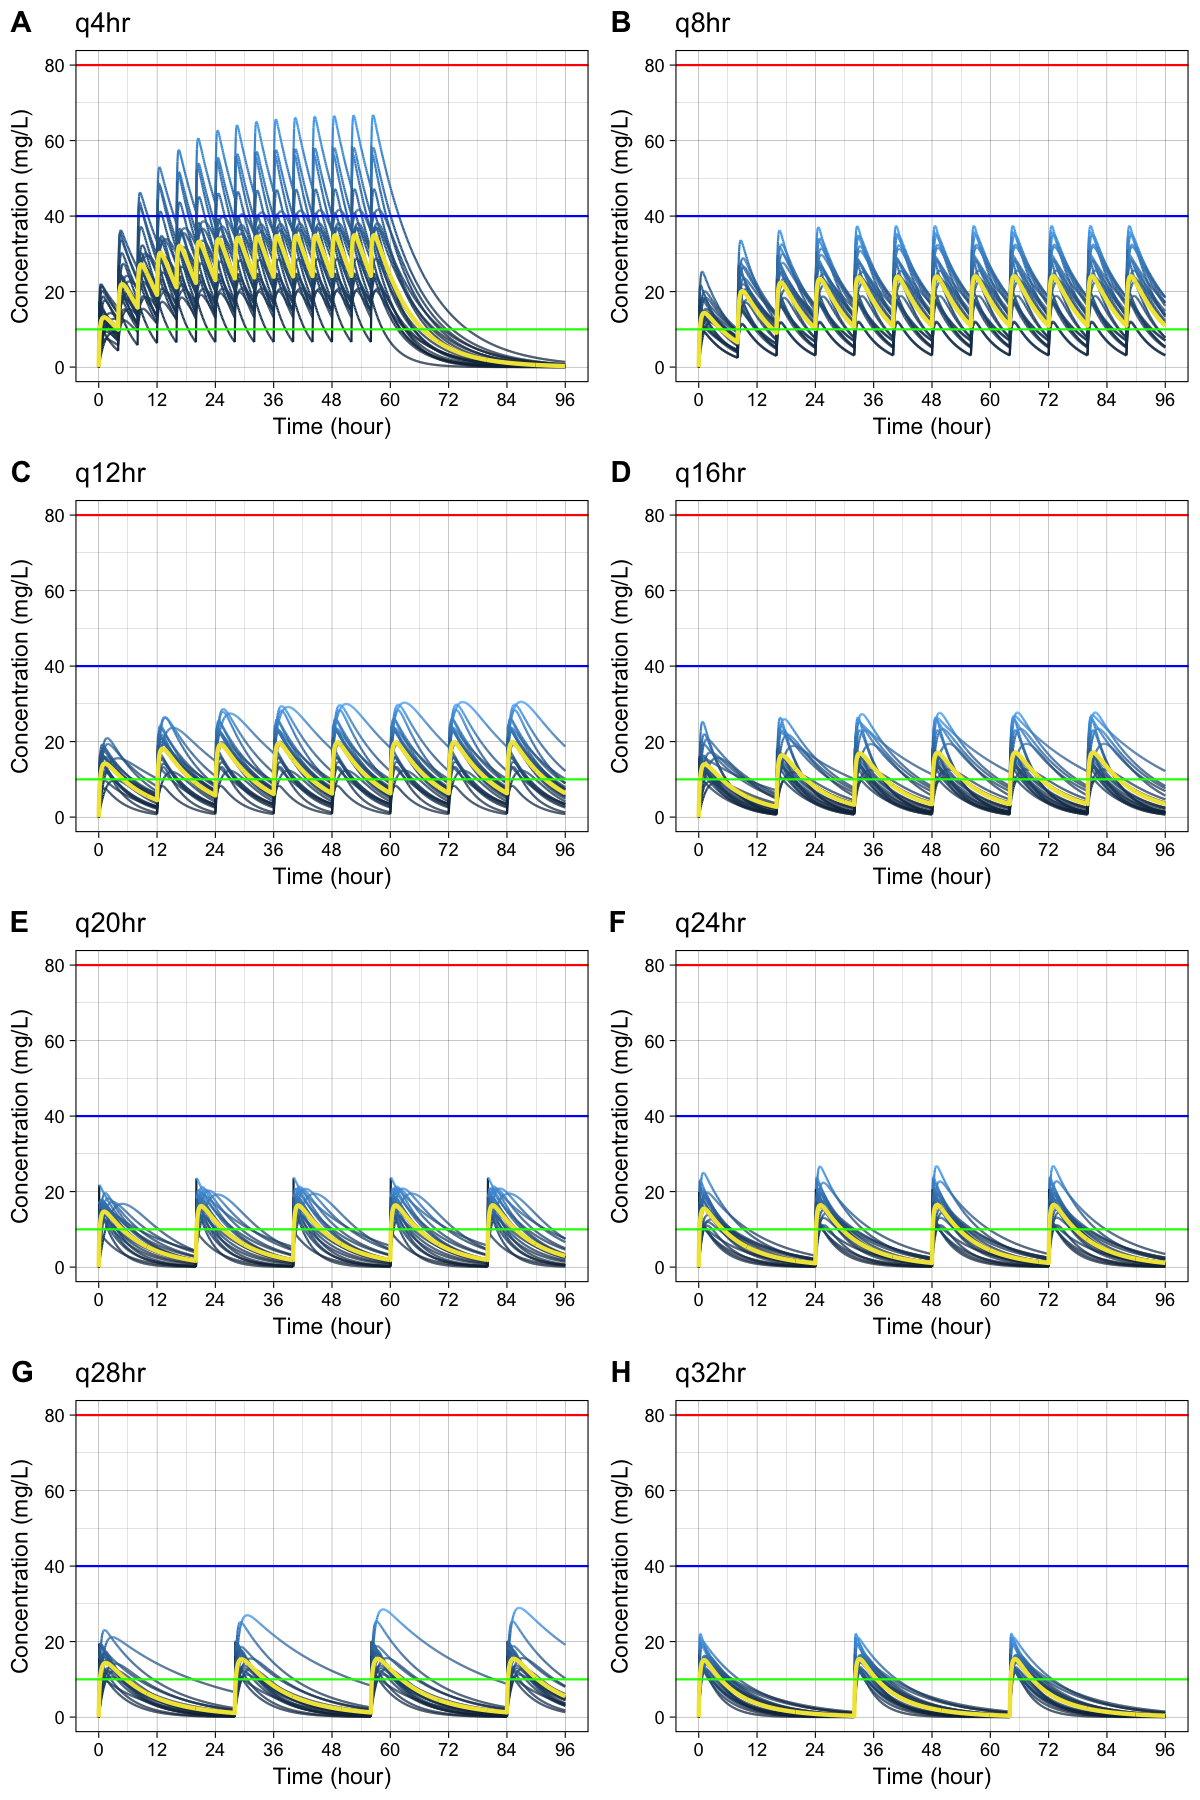
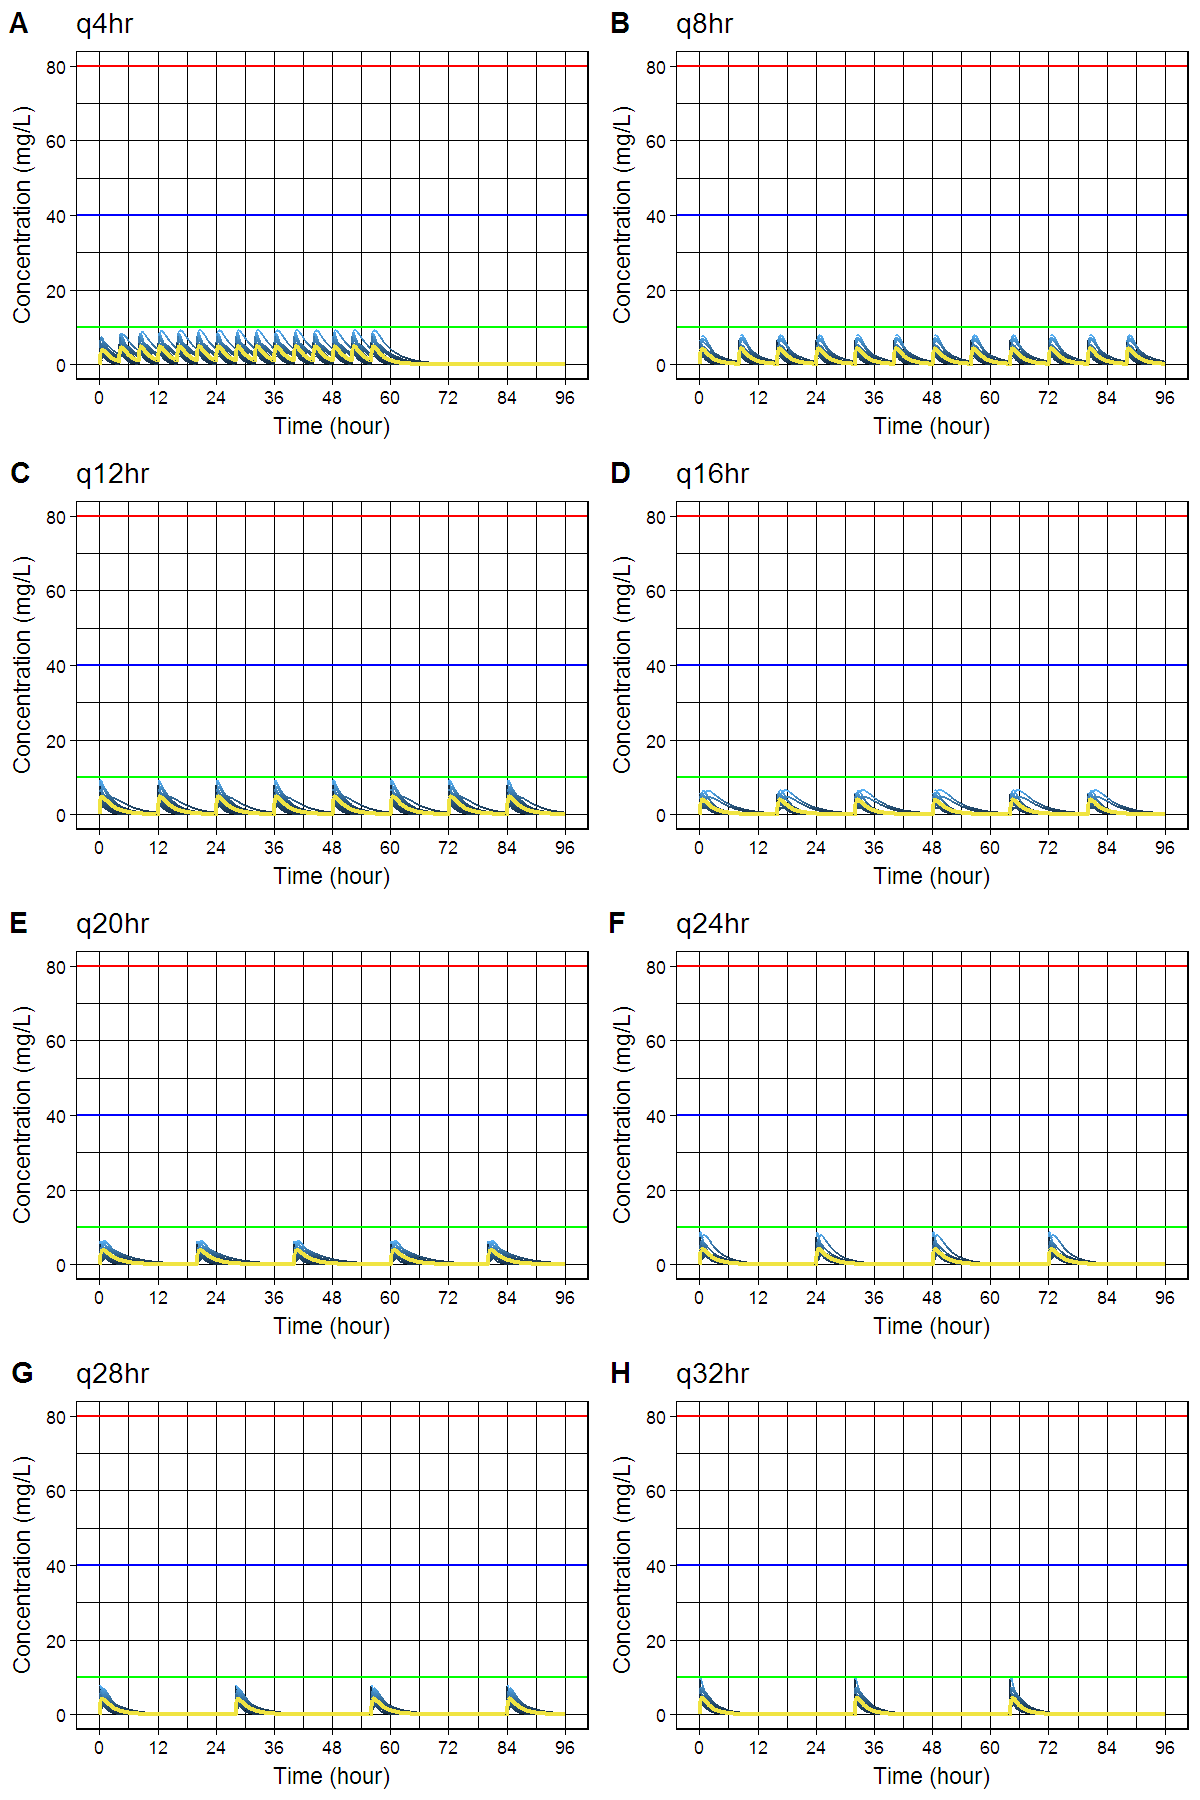
update: README.Rmd

diff --git a/README.md b/README.md
@@ -1,82 +1,81 @@
 
 
 
-# `caffsim` R package: Simulation of Plasma Caffeine Concentrations by Using Population Pharmacokinetic Model
+# `busulfansim` R package: Simulation of Plasma Busulfan Concentrations by Using Population Pharmacokinetic Model
 
-[![DOI](https://zenodo.org/badge/DOI/10.5281/zenodo.842649.svg)](https://doi.org/10.5281/zenodo.842649) 
-![CRAN downloads](http://cranlogs.r-pkg.org/badges/grand-total/caffsim)
-[![CRAN_Status_Badge](http://www.r-pkg.org/badges/version/caffsim)](https://cran.r-project.org/package=caffsim)
+![CRAN downloads](http://cranlogs.r-pkg.org/badges/grand-total/busulfansim)
+[![CRAN_Status_Badge](http://www.r-pkg.org/badges/version/busulfansim)](https://cran.r-project.org/package=busulfansim)
 
-> Simulate plasma caffeine concentrations using population pharmacokinetic model described in Lee, Kim, Perera, McLachlan and Bae (2015) <doi:10.1007/s00431-015-2581-x>.
+> Simulate plasma busulfan concentrations using population pharmacokinetic model described in Choe, Kim, Lim, Cho, Ghim, Jung, Kim, Noh, Bae and Lee (2012) <doi:10.4196/kjpp.2012.16.4.273>.
 
-- Github: <https://github.com/asancpt/caffsim>
-- Package vignettes and references by `pkgdown`: <http://asancpt.github.io/caffsim> 
+- Github: <https://github.com/asancpt/busulfansim>
+- Package vignettes and references by `pkgdown`: <http://asancpt.github.io/busulfansim> 
 
 ## Installation
 
 
 ```r
 install.pacakges("devtools")
-devtools::install_github("asancpt/caffsim")
+devtools::install_github("asancpt/busulfansim")
 
 # Simply create single dose dataset
-caffsim::caffPkparam(Weight = 20, Dose = 200, N = 20) 
+busulfansim::bsfnPkparam(Weight = 20, Dose = 200, N = 20) 
 
 # Simply create multiple dose dataset
-caffsim::caffPkparamMulti(Weight = 20, Dose = 200, N = 20, Tau = 12) 
+busulfansim::bsfnPkparamMulti(Weight = 20, Dose = 200, N = 20, Tau = 12) 
 ```
 
 ## Single dose
 
-### Create a PK dataset for caffeine single dose
+### Create a PK dataset for busulfan single dose
 
 
 ```r
-library(caffsim)
-MyDataset <- caffPkparam(Weight = 20, Dose = 200, N = 20)
+library(busulfansim)
+MyDataset <- bsfnPkparam(Weight = 20, Dose = 200, N = 20)
 knitr::kable(head(MyDataset), format = 'markdown')
 ```
 
 
 
-| subjid|      Tmax|      Cmax|       AUC| Half_life|       CL|        V|         Ka|        Ke|
-|------:|---------:|---------:|---------:|---------:|--------:|--------:|----------:|---------:|
-|      1| 0.5655111| 11.291824|  60.24647|  3.281173| 3.319696| 15.71789|  6.1820434| 0.2112049|
-|      2| 0.4701949| 15.171198|  94.54809|  3.979272| 2.115326| 12.14640|  8.4236385| 0.1741524|
-|      3| 0.9499244|  6.863754|  62.81142|  5.643536| 3.184134| 25.93041|  3.7110212| 0.1227954|
-|      4| 0.7614789| 11.856222| 102.84659|  5.457355| 1.944644| 15.31402|  4.9329239| 0.1269846|
-|      5| 0.3671727| 12.045754|  49.60140|  2.586212| 4.032145| 15.04759| 10.1722397| 0.2679595|
-|      6| 5.3930577| 10.938642| 179.10142|  6.224503| 1.116686| 10.03003|  0.2867746| 0.1113342|
+| subjid|      Tmax|     Cmax|       AUC| Half_life|       CL|        V|       Ka|        Ke|
+|------:|---------:|--------:|---------:|---------:|--------:|--------:|--------:|---------:|
+|      1| 0.8645280| 3.806342| 10.530454| 1.1263121| 18.99253| 30.86799| 1.948869| 0.6152824|
+|      2| 1.0442513| 3.463465| 12.120699| 1.4942351| 16.50070| 35.57853| 1.717529| 0.4637824|
+|      3| 0.6624286| 2.678946|  6.372286| 1.0758509| 31.38591| 48.72519| 2.931934| 0.6441413|
+|      4| 0.3175520| 3.427083|  5.530503| 0.8678583| 36.16307| 45.28777| 8.091043| 0.7985175|
+|      5| 0.6094890| 3.433842|  9.651271| 1.4578429| 20.72266| 43.59362| 3.949000| 0.4753599|
+|      6| 1.1010065| 4.533603| 15.732897| 1.3878079| 12.71222| 25.45760| 1.495829| 0.4993486|
 
 ### Create a dataset for concentration-time curve
 
 
 ```r
-MyConcTime <- caffConcTime(Weight = 20, Dose = 200, N = 20)
+MyConcTime <- bsfnConcTime(Weight = 20, Dose = 200, N = 20)
 knitr::kable(head(MyConcTime), format = 'markdown') 
 ```
 
 
 
-| Subject| Time|      Conc|
-|-------:|----:|---------:|
-|       1|  0.0|  0.000000|
-|       1|  0.1|  3.597156|
-|       1|  0.2|  6.177010|
-|       1|  0.3|  8.016618|
-|       1|  0.4|  9.317695|
-|       1|  0.5| 10.227099|
+| Subject| Time|     Conc|
+|-------:|----:|--------:|
+|       1|  0.0| 0.000000|
+|       1|  0.1| 2.904707|
+|       1|  0.2| 3.951880|
+|       1|  0.3| 4.210189|
+|       1|  0.4| 4.141132|
+|       1|  0.5| 3.943454|
 
 ### Create a concentration-time curve
 
 
 ```r
-caffPlot(MyConcTime)
+bsfnPlot(MyConcTime)
 ```
 
 ![](assets/figures/MyPlotMyConcTime-1.png)<!-- -->
 
-### Create plots for publication (according to the amount of caffeine)
+### Create plots for publication (according to the amount of busulfan)
 
 - `cowplot` package is required
 
@@ -87,7 +86,7 @@ library(cowplot)
 
 MyPlotPub <- lapply(
   c(seq(100, 800, by = 100)), 
-  function(x) caffPlotMulti(caffConcTime(20, x, 20)) + 
+  function(x) bsfnPlotMulti(bsfnConcTime(20, x, 20)) + 
     theme(legend.position="none") + 
     labs(title = paste0("Single Dose ", x, "mg")))
 
@@ -102,30 +101,30 @@ plot_grid(MyPlotPub[[1]], MyPlotPub[[2]],
 
 ## Multiple dose
 
-### Create a PK dataset for caffeine multiple doses
+### Create a PK dataset for busulfan multiple doses
 
 
 ```r
-MyDatasetMulti <- caffPkparamMulti(Weight = 20, Dose = 200, N = 20, Tau = 12)
+MyDatasetMulti <- bsfnPkparamMulti(Weight = 20, Dose = 200, N = 20, Tau = 12)
 knitr::kable(head(MyDatasetMulti), format = 'markdown') 
 ```
 
 
 
-| subjid|     TmaxS|     CmaxS|      AUCS|       AI|    Aavss|     Cavss|    Cmaxss|   Cminss|
-|------:|---------:|---------:|---------:|--------:|--------:|---------:|---------:|--------:|
-|      1| 1.3690238|  6.210796|  44.68358| 1.135524|  93.8910|  3.723632|  8.988038| 1.072718|
-|      2| 0.3001011| 13.655855|  97.01756| 1.206465| 113.0584|  8.084797| 17.218958| 2.946721|
-|      3| 0.2680477| 18.231856| 101.79732| 1.116443|  88.2919|  8.483110| 21.409005| 2.232919|
-|      4| 0.3863132| 11.076209|  78.16780| 1.197577| 110.7613|  6.513983| 14.056833| 2.319103|
-|      5| 1.1767955|  7.361027|  74.13932| 1.344519| 146.5760|  6.178277| 11.310903| 2.898302|
-|      6| 0.5523147| 16.182537| 187.47985| 1.507252| 183.2668| 15.623321| 25.644911| 8.630565|
+| subjid|     TmaxS|    CmaxS|      AUCS|       AI|    Aavss|     Cavss|   Cmaxss|    Cminss|
+|------:|---------:|--------:|---------:|--------:|--------:|---------:|--------:|---------:|
+|      1| 0.6575549| 2.220202|  4.790789| 1.000100| 21.66191| 0.3992325| 3.678731| 0.0003667|
+|      2| 0.3459675| 5.811540| 14.533147| 1.003540| 35.34327| 1.2110956| 6.863289| 0.0242139|
+|      3| 1.1530714| 2.997588| 12.602648| 1.013413| 46.14802| 1.0502207| 4.602985| 0.0609220|
+|      4| 0.8822424| 3.833658| 11.479567| 1.001617| 31.04435| 0.9566306| 6.160117| 0.0099429|
+|      5| 0.4099718| 3.109292|  5.246502| 1.000045| 19.93421| 0.4372085| 4.377588| 0.0001963|
+|      6| 0.5373787| 4.137364| 10.722551| 1.002296| 32.83157| 0.8935460| 5.444361| 0.0124698|
 
 ### Create a dataset for concentration-time curve
 
 
 ```r
-MyConcTimeMulti <- caffConcTimeMulti(Weight = 20, Dose = 200, N = 20, Tau = 12, Repeat = 10)
+MyConcTimeMulti <- bsfnConcTimeMulti(Weight = 20, Dose = 200, N = 20, Tau = 12, Repeat = 10)
 knitr::kable(head(MyConcTimeMulti), format = 'markdown')
 ```
 
@@ -134,17 +133,17 @@ knitr::kable(head(MyConcTimeMulti), format = 'markdown')
 | Subject| Time|     Conc|
 |-------:|----:|--------:|
 |       1|  0.0| 0.000000|
-|       1|  0.1| 1.151194|
-|       1|  0.2| 2.198578|
-|       1|  0.3| 3.150142|
-|       1|  0.4| 4.013281|
-|       1|  0.5| 4.794837|
+|       1|  0.1| 1.452191|
+|       1|  0.2| 2.284478|
+|       1|  0.3| 2.721185|
+|       1|  0.4| 2.908080|
+|       1|  0.5| 2.939683|
 
 ### Create a concentration-time curve
 
 
 ```r
-caffPlotMulti(MyConcTimeMulti)
+bsfnPlotMulti(MyConcTimeMulti)
 ```
 
 ![](assets/figures/MyPlotMultiMyConcTimeMulti-1.png)<!-- -->
@@ -160,7 +159,7 @@ library(cowplot)
 
 MyPlotMultiPub <- lapply(
   c(seq(4, 32, by = 4)), 
-  function(x) caffPlotMulti(caffConcTimeMulti(20, 250, 20, x, 15)) + 
+  function(x) bsfnPlotMulti(bsfnConcTimeMulti(20, 250, 20, x, 15)) + 
     theme(legend.position="none") + 
     labs(title = paste0("q", x, "hr" )))
 
@@ -176,6 +175,6 @@ plot_grid(MyPlotMultiPub[[1]], MyPlotMultiPub[[2]],
 ## Interactive shiny app
 
 ```r
-caffShiny()
+bsfnShiny()
 ```
 
